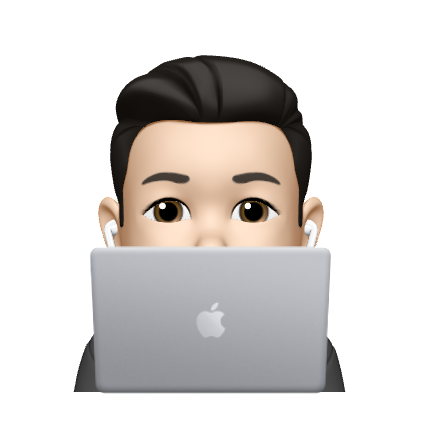
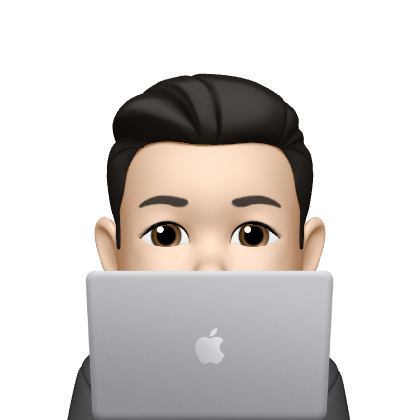
미모티콘 변경 및 반응형 수정 24.08.30

Changed region(s): [[0.1548, 0.1238, 0.8357, 1.0], [0.4643, 0.7119, 0.5571, 0.8667]]

diff --git a/index.html b/index.html
@@ -233,12 +233,24 @@
                       </div>
                       <div class="item">
                           <div class="newList2">
-                            <div class="pj1" ></div>
-                            <div class="pj2" ></div>
-                            <div class="pj3" style="height: 200px;"></div>
-                            <div class="pj4" style="height: 200px;"></div>
-                            <div class="pj5" ></div>
-                            <div class="pj6" ></div>
+                            <div class="pj1" >
+                              <div></div>
+                            </div>
+                            <div class="pj1" >
+                              <div></div>
+                            </div>
+                            <div class="pj1" style="height: 200px;">
+                              <div></div>
+                            </div>
+                            <div class="pj1" style="height: 200px;">
+                              <div></div>
+                            </div>
+                            <div class="pj1" >
+                              <div></div>
+                            </div>
+                            <div class="pj1" >
+                              <div></div>
+                            </div>
                           </div>
                       </div>
                   </div>

diff --git a/CSS/mainStyle.css b/CSS/mainStyle.css
@@ -357,7 +357,7 @@ html{
     
 }
 
-.newList2 div{
+.pj1{
   width: 30%;
   height: 300px;
   text-align: center;
@@ -442,7 +442,7 @@ iframe{
     margin-top: 35px;
     display: flex;
     flex-flow: wrap;
-    justify-content: space-between;
+    justify-content: space-around;
     -webkit-box-pack: justify;
 }
 
